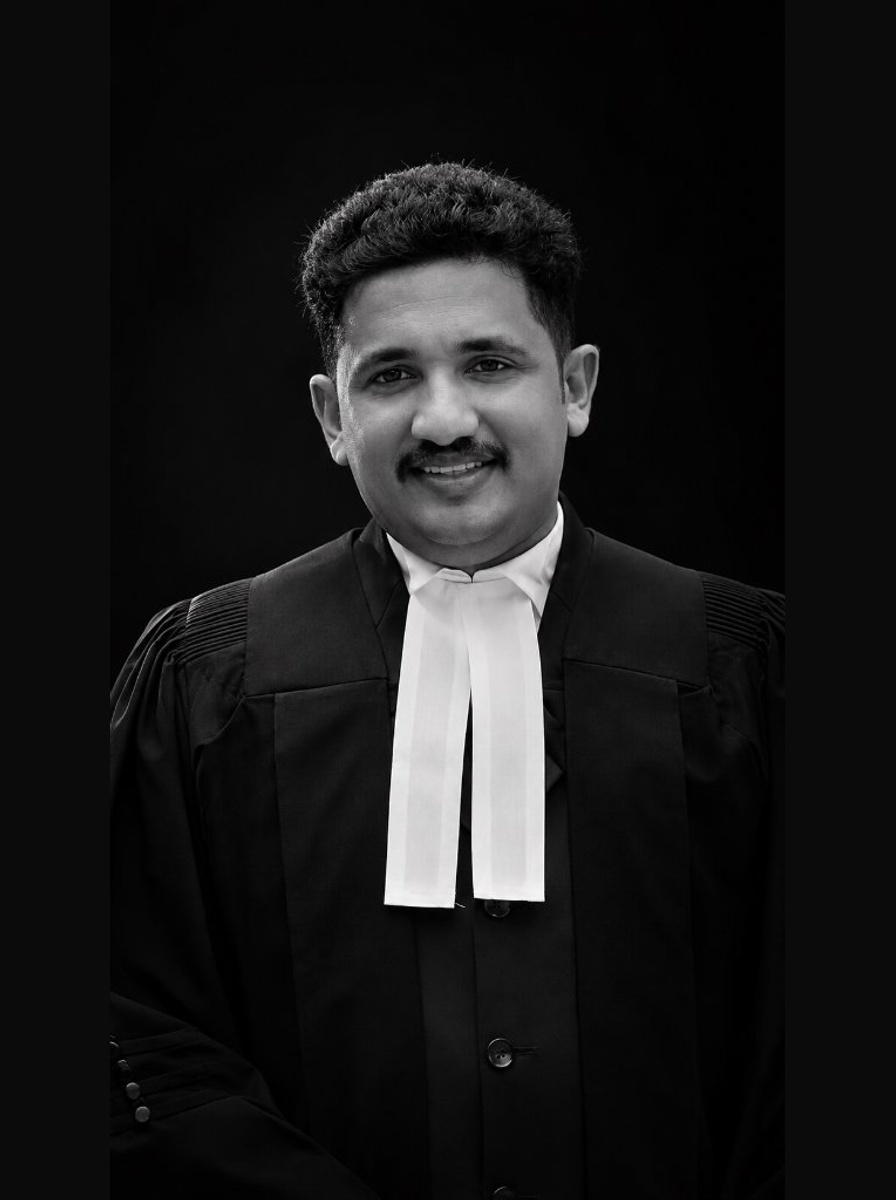
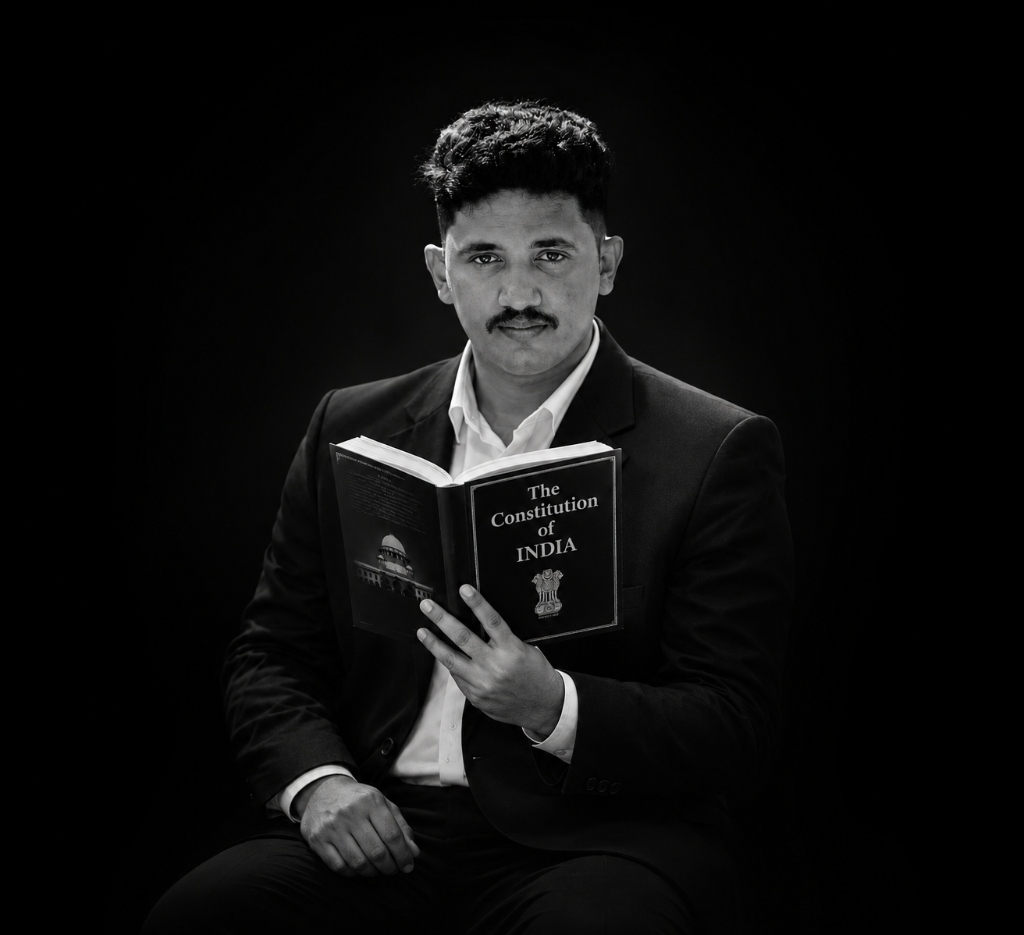
Update hero section with Constitution of India advocate portrait matching reference layout

diff --git a/src/components/Hero.tsx b/src/components/Hero.tsx
@@ -11,48 +11,45 @@ export const Hero: React.FC<HeroProps> = ({ onOpenConsultation, onOpenVideo }) =
   return (
     <section
       id="home"
-      className="relative min-h-[92vh] lg:min-h-screen bg-[#0B0B0B] text-white flex items-center pt-24 sm:pt-28 pb-12 sm:pb-16 overflow-hidden"
+      className="relative min-h-[90vh] lg:min-h-screen bg-black text-white flex items-center pt-24 sm:pt-28 pb-12 sm:pb-16 overflow-hidden"
     >
       {/* Background Architectural Ambiance & Ambient Glow */}
       <div className="absolute inset-0 pointer-events-none overflow-hidden">
         {/* Soft slow-moving ambient light radial */}
         <motion.div
           animate={{
-            opacity: [0.06, 0.14, 0.06],
-            scale: [1, 1.06, 1],
+            opacity: [0.04, 0.1, 0.04],
+            scale: [1, 1.05, 1],
           }}
           transition={{
             duration: 12,
             repeat: Infinity,
             ease: 'easeInOut',
           }}
-          className="absolute -top-32 -left-32 w-[600px] h-[600px] bg-gradient-to-br from-white/20 via-[#F5F2EA]/10 to-transparent rounded-full blur-[140px]"
+          className="absolute -top-32 -left-32 w-[600px] h-[600px] bg-gradient-to-br from-white/15 via-[#F5F2EA]/10 to-transparent rounded-full blur-[140px]"
         />
-
-        {/* Subtle grid and column silhouettes */}
-        <div className="absolute right-0 top-0 bottom-0 w-full lg:w-1/2 bg-[radial-gradient(circle_at_70%_30%,rgba(255,255,255,0.05),transparent_70%)]" />
       </div>
 
       <div className="max-w-7xl mx-auto px-5 sm:px-8 lg:px-12 w-full relative z-10">
-        <div className="grid grid-cols-1 lg:grid-cols-12 gap-8 lg:gap-12 items-center">
+        <div className="grid grid-cols-1 lg:grid-cols-12 gap-8 lg:gap-10 items-center">
           
-          {/* Left Column: Typography & CTAs (7 cols on desktop) */}
+          {/* Left Column: Typography & CTAs (6 cols on desktop) */}
           <motion.div
             initial={{ opacity: 0, y: 24 }}
             animate={{ opacity: 1, y: 0 }}
             transition={{ duration: 0.8, ease: [0.22, 1, 0.36, 1] }}
-            className="lg:col-span-7 flex flex-col justify-center text-left max-w-2xl relative z-20"
+            className="lg:col-span-6 xl:col-span-6 flex flex-col justify-center text-left max-w-2xl relative z-20"
           >
             {/* Small uppercase label */}
             <div className="flex items-center gap-3 mb-4 sm:mb-6">
               <span className="text-[11px] sm:text-xs font-sans tracking-[0.28em] text-[#A5A5A5] uppercase font-medium">
                 Advocate
               </span>
-              <span className="w-10 sm:w-14 h-[1px] bg-[#A5A5A5]/40" />
+              <span className="w-12 sm:w-16 h-[1px] bg-white/30" />
             </div>
 
             {/* Main Editorial Heading */}
-            <h1 className="font-editorial text-4xl sm:text-5xl md:text-6xl lg:text-[68px] leading-[1.08] sm:leading-[1.05] tracking-tight text-[#FFFFFF] mb-5 sm:mb-6">
+            <h1 className="font-editorial text-4xl sm:text-5xl md:text-6xl lg:text-[62px] xl:text-[68px] leading-[1.08] sm:leading-[1.05] tracking-tight text-[#FFFFFF] mb-5 sm:mb-6">
               Legal Strategy for <br />
               <span className="italic font-normal text-[#F5F2EA] font-garamond">
                 Real Solutions.
@@ -90,54 +87,24 @@ export const Hero: React.FC<HeroProps> = ({ onOpenConsultation, onOpenVideo }) =
             </div>
           </motion.div>
 
-          {/* Right Column: Seamlessly Blended Advocate Monochrome Portrait (5 cols on desktop) */}
+          {/* Right Column: Advocate Photo with The Constitution of India (6 cols on desktop) */}
           <motion.div
-            initial={{ opacity: 0, scale: 0.97 }}
+            initial={{ opacity: 0, scale: 0.98 }}
             animate={{ opacity: 1, scale: 1 }}
-            transition={{ duration: 1.1, delay: 0.15, ease: [0.22, 1, 0.36, 1] }}
-            className="lg:col-span-5 relative mt-4 lg:mt-0 flex justify-center lg:justify-end"
+            transition={{ duration: 1.0, delay: 0.15, ease: [0.22, 1, 0.36, 1] }}
+            className="lg:col-span-6 xl:col-span-6 relative mt-6 lg:mt-0 flex justify-center lg:justify-end"
           >
-            {/* Ambient soft backlight behind portrait */}
-            <div className="absolute -inset-10 bg-[radial-gradient(circle_at_50%_45%,rgba(245,242,234,0.06),transparent_70%)] pointer-events-none blur-2xl" />
+            {/* Seamless blended container matching reference composition */}
+            <div className="relative w-full max-w-[460px] sm:max-w-[520px] lg:max-w-[580px] xl:max-w-[620px] select-none group">
+              <img
+                src="/advocate-constitution.jpg"
+                alt="Adv. Muhammad Ajmal KTV holding The Constitution of India"
+                className="w-full h-auto object-contain object-center transition-transform duration-700 ease-out group-hover:scale-[1.01]"
+                loading="eager"
+              />
 
-            {/* Seamless blended container without any border or box */}
-            <div className="relative w-full max-w-[440px] sm:max-w-[480px] lg:max-w-[520px] select-none group">
-              
-              {/* Outer feathered mask container */}
-              <div
-                className="relative overflow-hidden"
-                style={{
-                  WebkitMaskImage:
-                    'radial-gradient(ellipse 92% 86% at 52% 46%, black 42%, rgba(0,0,0,0.85) 65%, transparent 100%)',
-                  maskImage:
-                    'radial-gradient(ellipse 92% 86% at 52% 46%, black 42%, rgba(0,0,0,0.85) 65%, transparent 100%)',
-                }}
-              >
-                <img
-                  src="/advocate-portrait.jpg"
-                  alt="Adv. Muhammad Ajmal KTV - Advocate High Court of Kerala"
-                  className="w-full h-auto aspect-[4/5] sm:aspect-[4/5] object-cover object-top grayscale contrast-[1.12] brightness-[0.93] transition-transform duration-1000 ease-out group-hover:scale-[1.015]"
-                  loading="eager"
-                />
-
-                {/* 1. Left Gradient Fade (blends seamlessly into text area on desktop) */}
-                <div className="absolute inset-y-0 left-0 w-32 sm:w-48 bg-gradient-to-r from-[#0B0B0B] via-[#0B0B0B]/80 to-transparent pointer-events-none" />
-
-                {/* 2. Bottom Gradient Fade (melts completely into the black Stats Bar below) */}
-                <div className="absolute inset-x-0 bottom-0 h-36 sm:h-52 bg-gradient-to-t from-[#0B0B0B] via-[#0B0B0B]/85 to-transparent pointer-events-none" />
-
-                {/* 3. Top Gradient Fade (melts softly into the header/navbar area) */}
-                <div className="absolute inset-x-0 top-0 h-28 sm:h-40 bg-gradient-to-b from-[#0B0B0B] via-[#0B0B0B]/75 to-transparent pointer-events-none" />
-
-                {/* 4. Right Gradient Fade (melts towards the screen edge) */}
-                <div className="absolute inset-y-0 right-0 w-24 sm:w-40 bg-gradient-to-l from-[#0B0B0B] via-[#0B0B0B]/75 to-transparent pointer-events-none" />
-
-                {/* 5. Radial Vignette for perfectly organic edges */}
-                <div className="absolute inset-0 bg-[radial-gradient(ellipse_at_center,transparent_45%,#0B0B0B_98%)] pointer-events-none" />
-              </div>
-
-              {/* Floor ambient shadow beneath the portrait */}
-              <div className="absolute -bottom-6 left-1/2 -translate-x-1/2 w-4/5 h-12 bg-black blur-xl pointer-events-none" />
+              {/* Gentle bottom edge fade to melt seamlessly into the boundary */}
+              <div className="absolute inset-x-0 bottom-0 h-16 sm:h-24 bg-gradient-to-t from-black via-black/60 to-transparent pointer-events-none" />
             </div>
           </motion.div>
 
